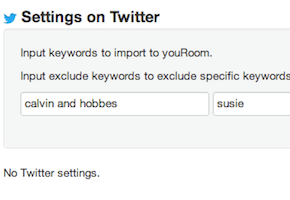
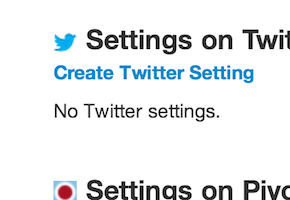
古い説明を更新

diff --git a/youroomassistant/index.html b/youroomassistant/index.html
@@ -252,7 +252,7 @@
                   <img src='images/reminder_howto_02_en.png'>
                 </div>
                 <p class='text'>
-                  Enter your scheduled day and message. 
+                  Enter your scheduled and message. 
                 </p>
               </li>
               <li>
@@ -324,7 +324,7 @@
                   <img src='images/twitter_howto_02_en.png'>
                 </div>
                 <p class='text'>
-                  Define the keywords to look out for on Twitter (left textbox). You can also define keywords to exclude (right textbox). Separate multiple keywords with a comma (,). 
+                  Click on the "Create Twitter Setting" link in the youRoom Assistant's settings page.
                 </p>
               </li>
               <li>
@@ -333,7 +333,18 @@
                   <img src='images/twitter_howto_03_en.png'>
                 </div>
                 <p class='text'>
-                  Click on the button to finish the configuration. Now, tweets that match all your predefined conditions will be posted to youRoom on a regular basis! 
+                  Enter your settings.
+                </p>
+              </li>
+            </ol>
+            <ol>
+              <li>
+                <h4 class='number'>4</h4>
+                <div class='image'>
+                  <img src='images/twitter_howto_04_en.png'>
+                </div>
+                <p class='text'>
+                  Click on the "Create Twitter setting" button, and you're done!
                 </p>
               </li>
             </ol>
